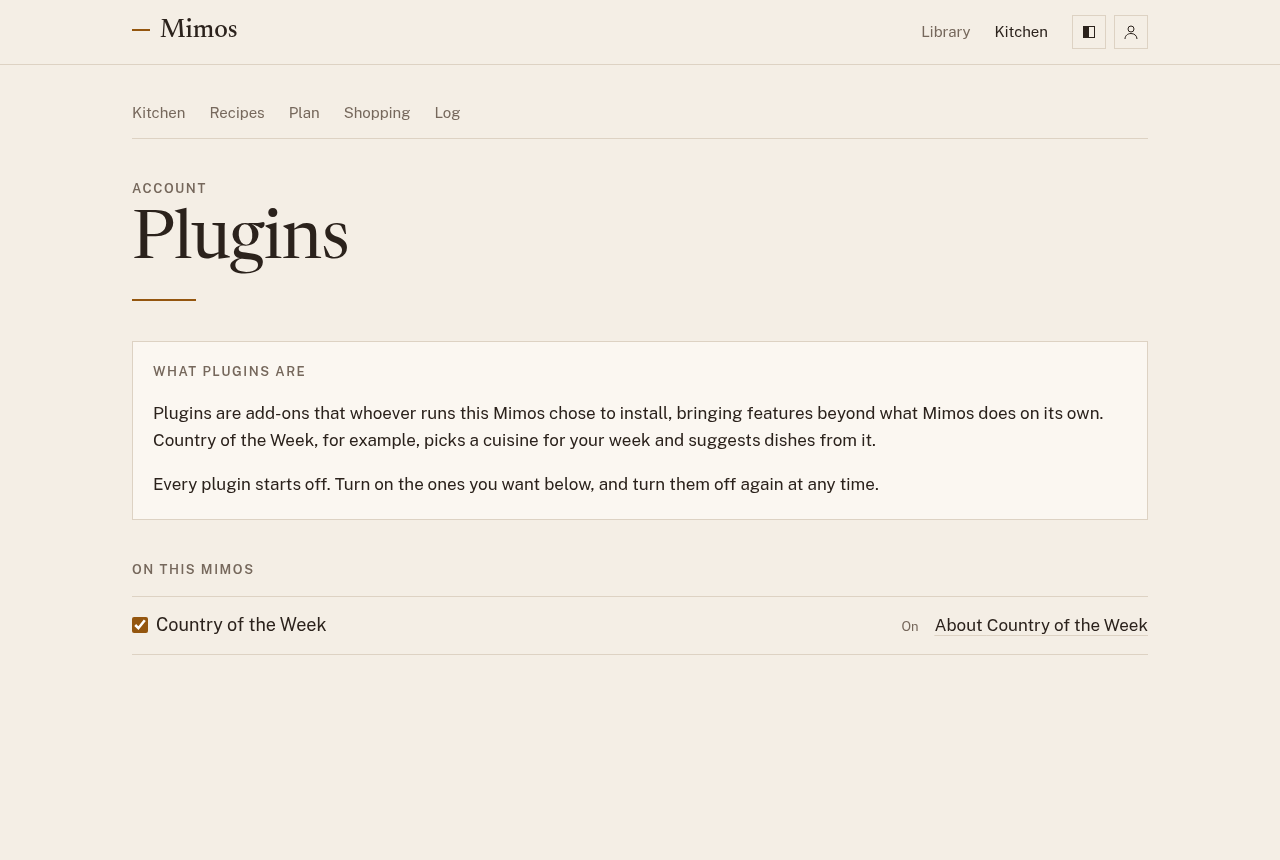
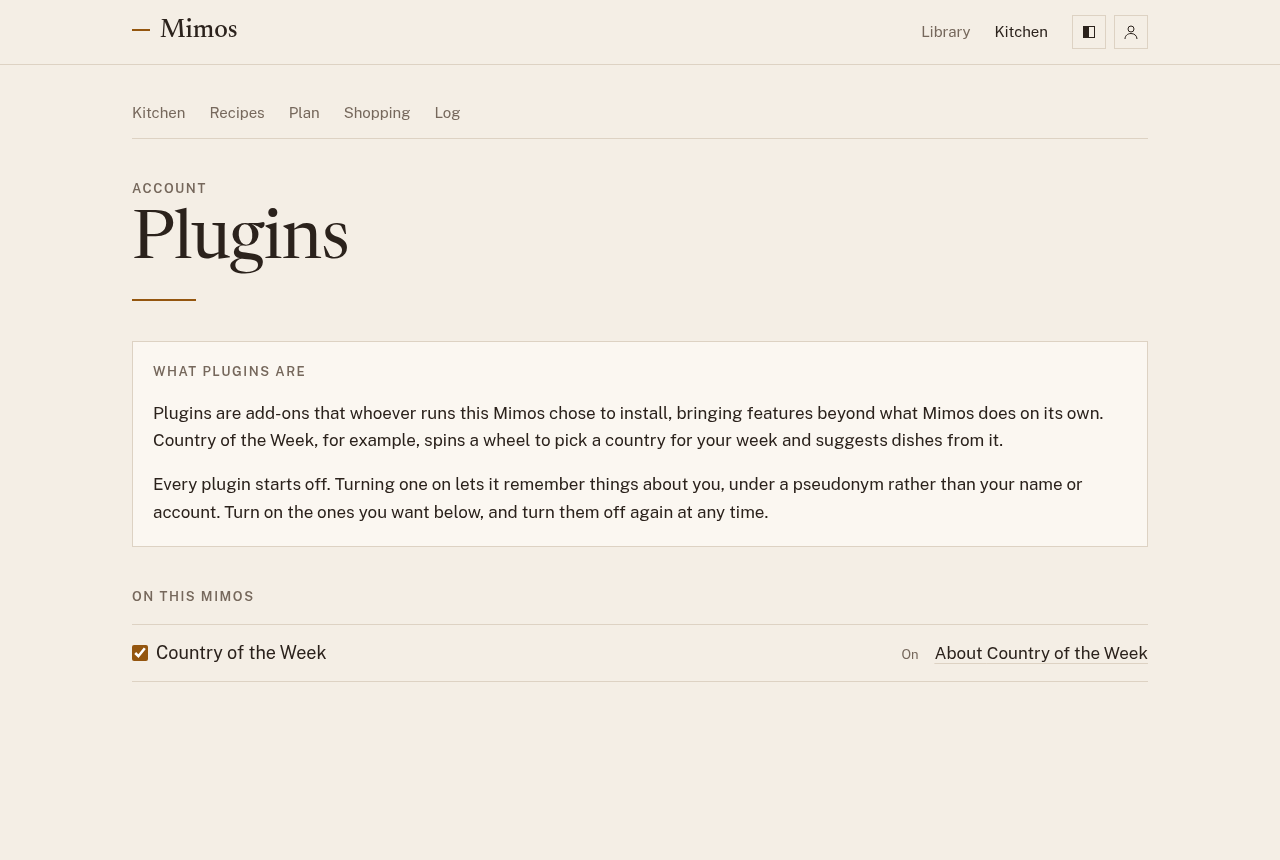
fix(web): describe the wheel on the Plugins page

Changed region(s): [[0.125, 0.4837, 0.8438, 0.6047], [0.0938, 0.6349, 0.25, 0.786], [0.7188, 0.7256, 0.9062, 0.786]]

diff --git a/apps/web/src/app/app/plugins/page.tsx b/apps/web/src/app/app/plugins/page.tsx
@@ -77,7 +77,7 @@ export default function PluginsPage() {
         <h2 id="about-heading">What plugins are</h2>
         <p>
           Plugins are add-ons that whoever runs this Mimos chose to install, bringing features beyond what Mimos does
-          on its own. Country of the Week, for example, picks a cuisine for your week and suggests dishes from it.
+          on its own. Country of the Week, for example, spins a wheel to pick a country for your week and suggests dishes from it.
         </p>
         <p>
           Every plugin starts off. Turning one on lets it remember things about you, under a pseudonym rather than your
